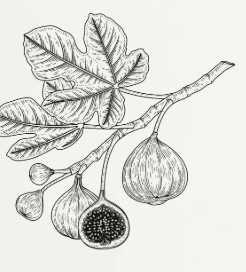
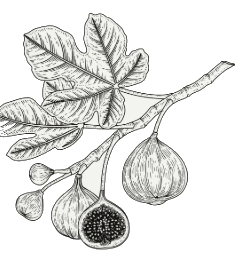
Add files via upload

diff --git a/diary.html b/diary.html
@@ -44,21 +44,6 @@
 <div class="scallop-divider" aria-hidden="true"></div>
 
 <main>
-  <div class="page-flourish" aria-hidden="true">
-  <svg viewBox="0 0 180 30" xmlns="http://www.w3.org/2000/svg">
-    <g fill="none" stroke="#8e2a3b" stroke-width="1.3" stroke-linecap="round">
-      <path d="M 2 15 Q 30 2, 58 15 Q 70 21, 78 15"/>
-      <path d="M 178 15 Q 150 2, 122 15 Q 110 21, 102 15"/>
-    </g>
-    <g fill="#a9bf95">
-      <rect x="86" y="9" width="8" height="8" transform="rotate(45 90 13)"/>
-    </g>
-    <g fill="none" stroke="#5c1a24" stroke-width="1">
-      <circle cx="58" cy="15" r="1.8"/>
-      <circle cx="122" cy="15" r="1.8"/>
-    </g>
-  </svg>
-</div>
   <h1 class="page-title fade-in">Diary</h1>
 
   <article class="diary-entry fade-in" id="agatha-and-relatability">
@@ -80,21 +65,7 @@
     <p class="signoff">xoxo, descartes</p>
   </article>
 
-  <div class="ring-divider" aria-hidden="true">
-      <svg viewBox="0 0 600 40" xmlns="http://www.w3.org/2000/svg">
-        <line x1="0" y1="20" x2="600" y2="20" stroke="#f3d7dc" stroke-width="2"/>
-        <g fill="none" stroke="#a9bf95" stroke-width="2.5">
-          <circle cx="130" cy="20" r="11"/>
-          <circle cx="270" cy="20" r="11"/>
-          <circle cx="410" cy="20" r="11"/>
-        </g>
-        <g fill="none" stroke="#5c1a24" stroke-width="1.4">
-          <circle cx="130" cy="20" r="5.5"/>
-          <circle cx="270" cy="20" r="5.5"/>
-          <circle cx="410" cy="20" r="5.5"/>
-        </g>
-      </svg>
-    </div>
+  <div class="ring-divider"><img src="assets/binder-rings.png" alt="" aria-hidden="true"></div>
 
   <article class="diary-entry fade-in" id="today-i-have-to-decide-not-to-be-milo-winter">
     <h2>today i have to decide not to be Milo Winter</h2>
@@ -110,21 +81,7 @@
     <p class="signoff">xoxo, descartes</p>
   </article>
 
-  <div class="ring-divider" aria-hidden="true">
-      <svg viewBox="0 0 600 40" xmlns="http://www.w3.org/2000/svg">
-        <line x1="0" y1="20" x2="600" y2="20" stroke="#f3d7dc" stroke-width="2"/>
-        <g fill="none" stroke="#a9bf95" stroke-width="2.5">
-          <circle cx="130" cy="20" r="11"/>
-          <circle cx="270" cy="20" r="11"/>
-          <circle cx="410" cy="20" r="11"/>
-        </g>
-        <g fill="none" stroke="#5c1a24" stroke-width="1.4">
-          <circle cx="130" cy="20" r="5.5"/>
-          <circle cx="270" cy="20" r="5.5"/>
-          <circle cx="410" cy="20" r="5.5"/>
-        </g>
-      </svg>
-    </div>
+  <div class="ring-divider"><img src="assets/binder-rings.png" alt="" aria-hidden="true"></div>
 
   <article class="diary-entry fade-in" id="the-art-of-investing-in-your-passion">
     <h2>the art of investing in your passion</h2>
@@ -144,7 +101,7 @@
     <p class="signoff">xoxo, descartes</p>
   </article>
 <div class="specimen-accent">
-  <img src="assets/fig-branch.png" alt="" aria-hidden="true">
+  <img src="assets/coffee-ring.png" alt="" aria-hidden="true">
   <span class="specimen-label">specimen no. 04</span>
 </div>
 </main>

diff --git a/about.html b/about.html
@@ -50,27 +50,12 @@
     </div>
     <img class="frame-img" src="assets/frame-green-oval.png" alt="">
   </div>
-  <div class="page-flourish" aria-hidden="true">
-  <svg viewBox="0 0 180 30" xmlns="http://www.w3.org/2000/svg">
-    <g fill="none" stroke="#8e2a3b" stroke-width="1.3" stroke-linecap="round">
-      <path d="M 2 15 Q 30 2, 58 15 Q 70 21, 78 15"/>
-      <path d="M 178 15 Q 150 2, 122 15 Q 110 21, 102 15"/>
-    </g>
-    <g fill="#a9bf95">
-      <rect x="86" y="9" width="8" height="8" transform="rotate(45 90 13)"/>
-    </g>
-    <g fill="none" stroke="#5c1a24" stroke-width="1">
-      <circle cx="58" cy="15" r="1.8"/>
-      <circle cx="122" cy="15" r="1.8"/>
-    </g>
-  </svg>
-</div>
   <h1 class="page-title fade-in">Hi, I'm I.N. Descartes.</h1>
   <p class="lede fade-in">I've loved reading since my mother taught me what words were, in the basement of our Virginia home.</p>
 
   <div class="fade-in"><p>Since then, I've grown up on a steady diet of mysteries, horror, suspense, and thrillers. I've always loved going to bed a little scared. Now I get to share stories that do the same thing.</p></div>
 <div class="specimen-accent">
-  <img src="assets/fig-branch.png" alt="" aria-hidden="true">
+  <img src="assets/fig-halves.png" alt="" aria-hidden="true">
   <span class="specimen-label">specimen no. 02</span>
 </div>
 </main>

diff --git a/style.css b/style.css
@@ -146,26 +146,25 @@ a:focus-visible { outline: 2px solid var(--red); outline-offset: 3px; }
   height: 56px;
   background-image:
     radial-gradient(circle at 14px 0, var(--green) 15px, transparent 16px),
-    url("assets/fabric-texture.jpg");
+    url("assets/paper-grain.jpg");
   background-size: 28px 56px, 220px 220px;
   background-repeat: repeat-x, repeat;
   background-blend-mode: normal, multiply;
   background-color: var(--burgundy);
 }
 
-.page-flourish {
-  display: flex;
-  justify-content: center;
-  margin: 0 0 1.75rem;
-}
-.page-flourish svg { display: block; width: 160px; height: auto; }
-
 .ring-divider {
   display: flex;
   justify-content: center;
   margin: 3.5rem 0;
 }
-.ring-divider svg { display: block; width: 100%; max-width: 420px; height: auto; }
+.ring-divider img {
+  display: block;
+  width: 100%;
+  max-width: 460px;
+  height: auto;
+  opacity: 0.9;
+}
 
 .specimen-accent {
   display: flex;
@@ -191,7 +190,6 @@ a:focus-visible { outline: 2px solid var(--red); outline-offset: 3px; }
 @media (max-width: 560px) {
   .specimen-accent { flex-direction: column; gap: 0.75rem; }
   .specimen-accent img { width: 170px; }
-  .page-flourish svg { width: 130px; }
 }
 
 main {

diff --git a/contact.html b/contact.html
@@ -44,21 +44,6 @@
 <div class="scallop-divider" aria-hidden="true"></div>
 
 <main>
-  <div class="page-flourish" aria-hidden="true">
-  <svg viewBox="0 0 180 30" xmlns="http://www.w3.org/2000/svg">
-    <g fill="none" stroke="#8e2a3b" stroke-width="1.3" stroke-linecap="round">
-      <path d="M 2 15 Q 30 2, 58 15 Q 70 21, 78 15"/>
-      <path d="M 178 15 Q 150 2, 122 15 Q 110 21, 102 15"/>
-    </g>
-    <g fill="#a9bf95">
-      <rect x="86" y="9" width="8" height="8" transform="rotate(45 90 13)"/>
-    </g>
-    <g fill="none" stroke="#5c1a24" stroke-width="1">
-      <circle cx="58" cy="15" r="1.8"/>
-      <circle cx="122" cy="15" r="1.8"/>
-    </g>
-  </svg>
-</div>
   <h1 class="page-title fade-in">Contact me</h1>
   <p class="lede fade-in">For inquiries about bookish events or press opportunities, please feel free to reach out here.</p>
 
@@ -74,7 +59,7 @@
     </iframe>
   </div>
 <div class="specimen-accent">
-  <img src="assets/fig-branch.png" alt="" aria-hidden="true">
+  <img src="assets/fig-halves.png" alt="" aria-hidden="true">
   <span class="specimen-label">specimen no. 05</span>
 </div>
 </main>

diff --git a/novels.html b/novels.html
@@ -44,21 +44,6 @@
 <div class="scallop-divider" aria-hidden="true"></div>
 
 <main>
-  <div class="page-flourish" aria-hidden="true">
-  <svg viewBox="0 0 180 30" xmlns="http://www.w3.org/2000/svg">
-    <g fill="none" stroke="#8e2a3b" stroke-width="1.3" stroke-linecap="round">
-      <path d="M 2 15 Q 30 2, 58 15 Q 70 21, 78 15"/>
-      <path d="M 178 15 Q 150 2, 122 15 Q 110 21, 102 15"/>
-    </g>
-    <g fill="#a9bf95">
-      <rect x="86" y="9" width="8" height="8" transform="rotate(45 90 13)"/>
-    </g>
-    <g fill="none" stroke="#5c1a24" stroke-width="1">
-      <circle cx="58" cy="15" r="1.8"/>
-      <circle cx="122" cy="15" r="1.8"/>
-    </g>
-  </svg>
-</div>
   <h1 class="page-title fade-in">Novels</h1>
 
   <section class="novel fade-in">
